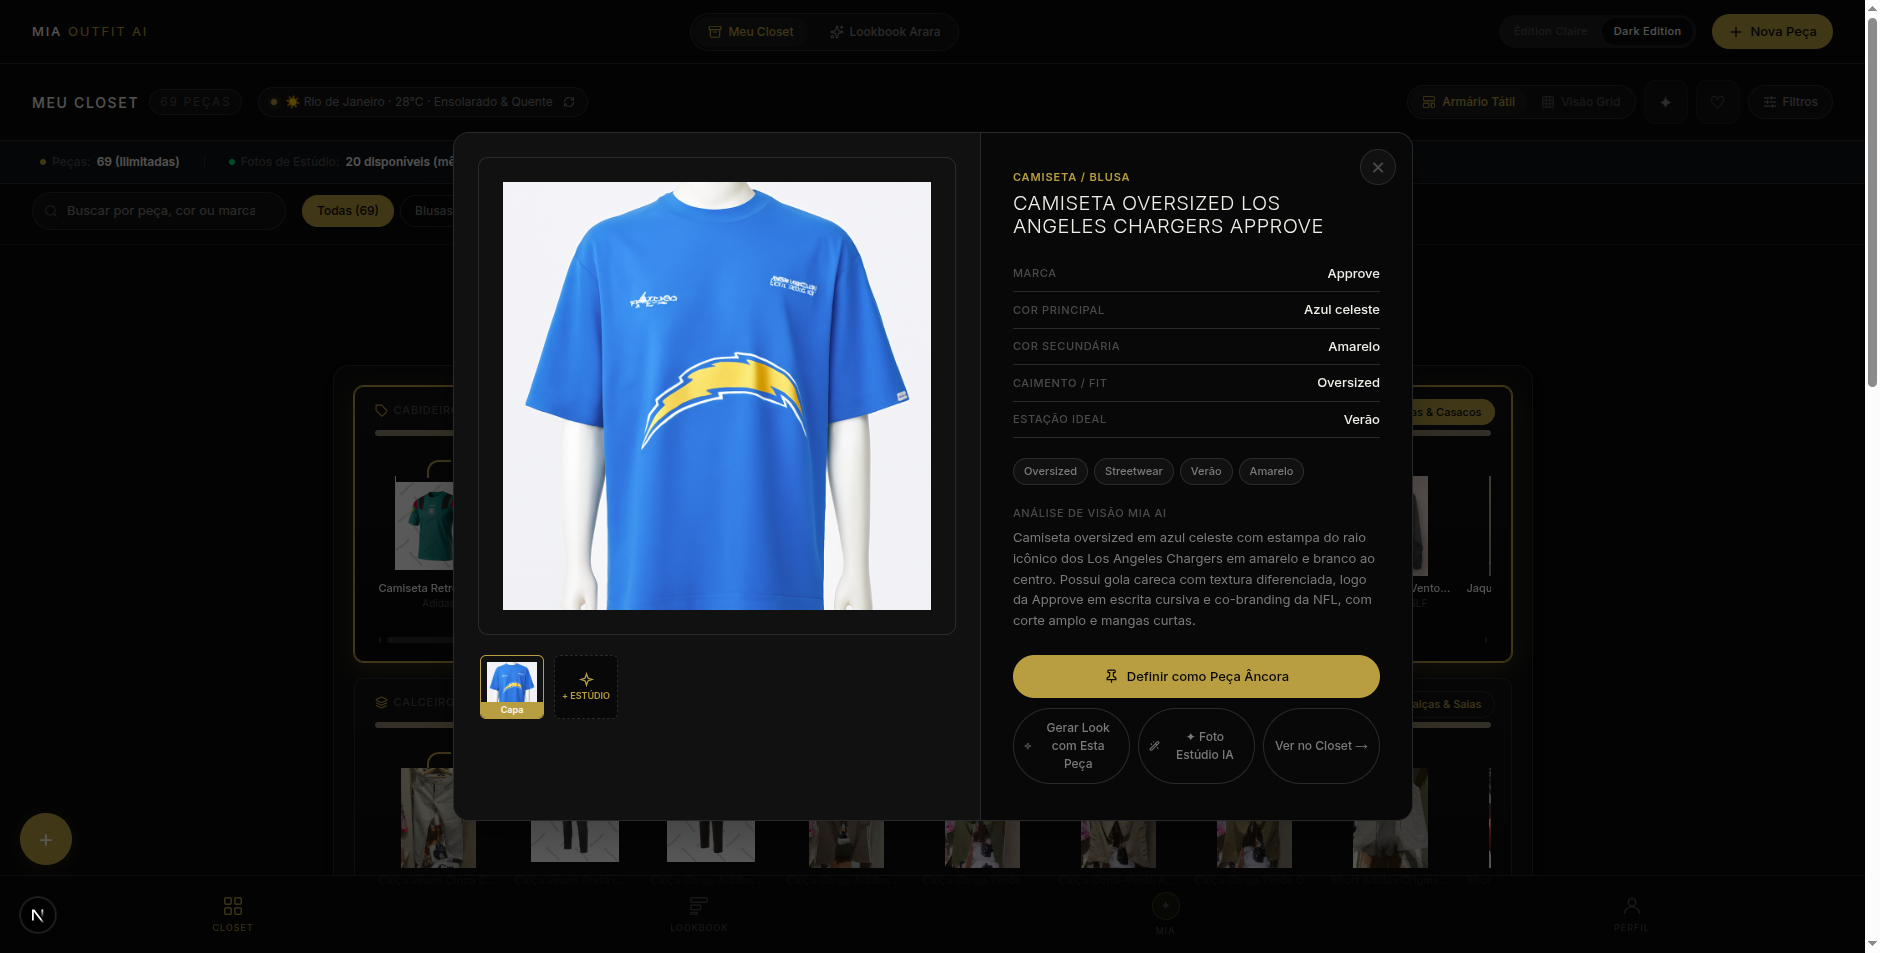
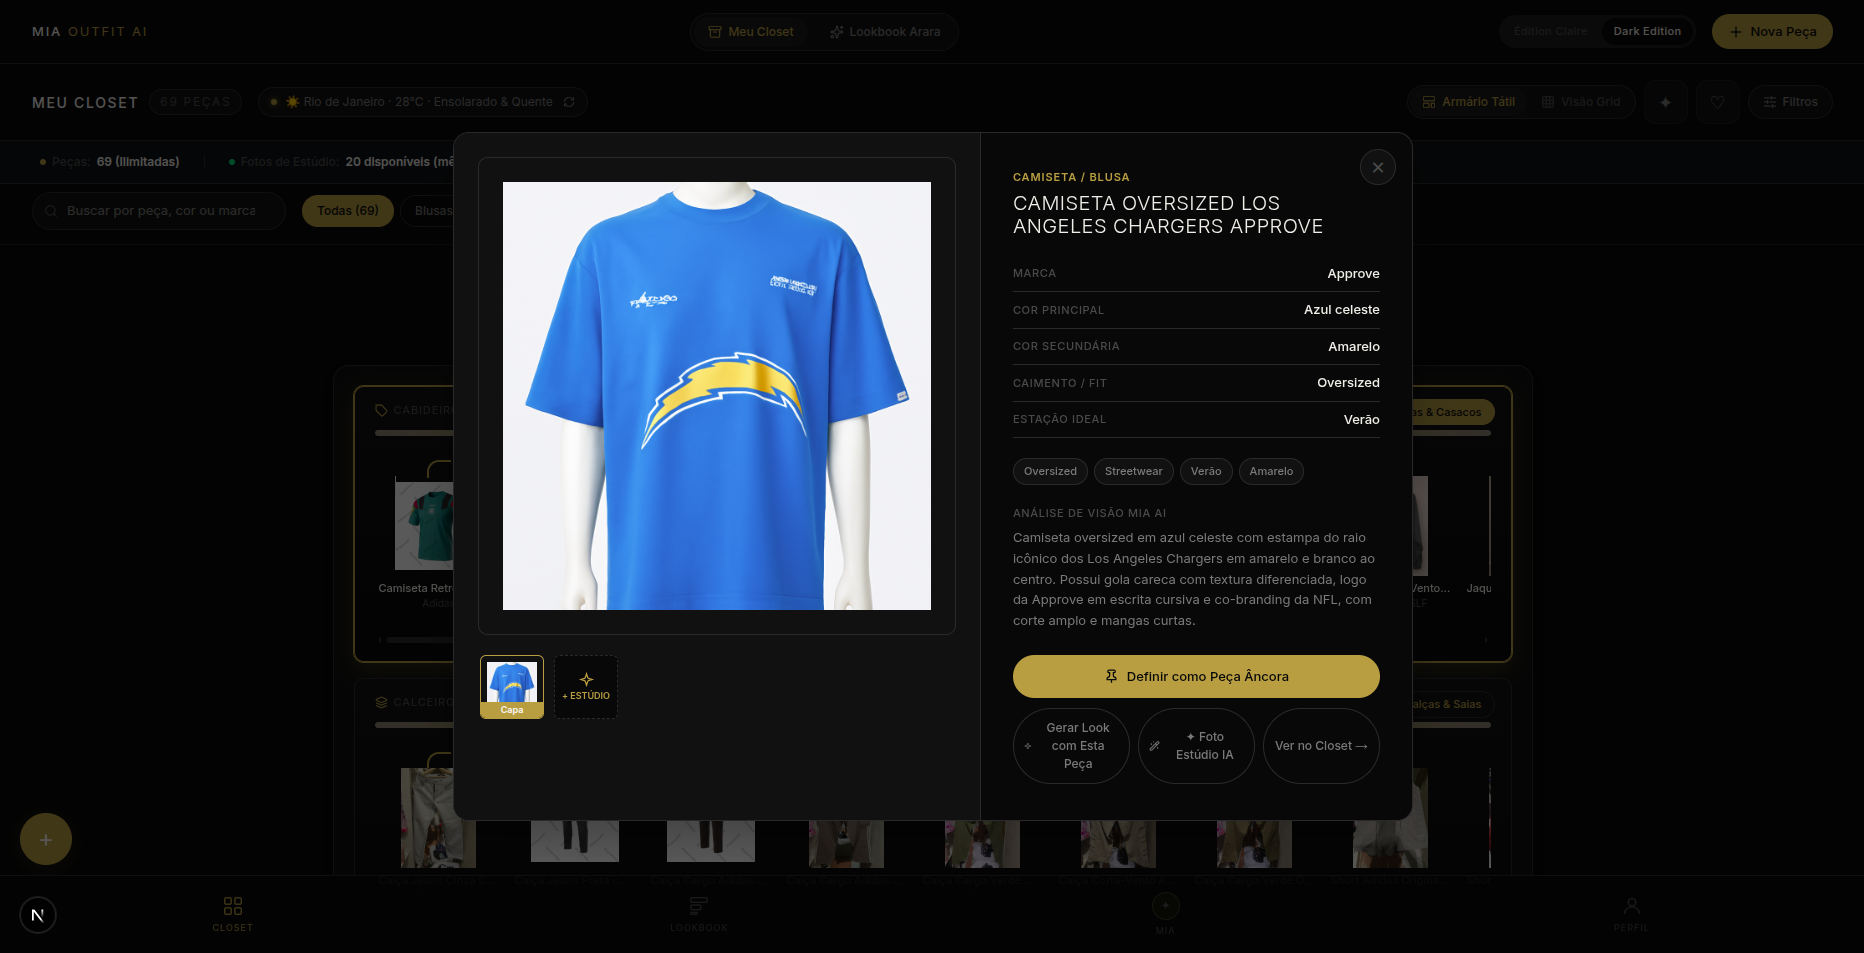
fix(landing): remove scrollbar artifact from feature preview images

diff --git a/src/app/landing/page.tsx b/src/app/landing/page.tsx
@@ -291,7 +291,7 @@ export default function LandingPage() {
                   <Image
                     src={block.image}
                     alt={block.alt}
-                    width={1880}
+                    width={1864}
                     height={953}
                     className="feature-preview-img"
                     sizes="(max-width: 768px) 100vw, (max-width: 1200px) 50vw, 540px"
